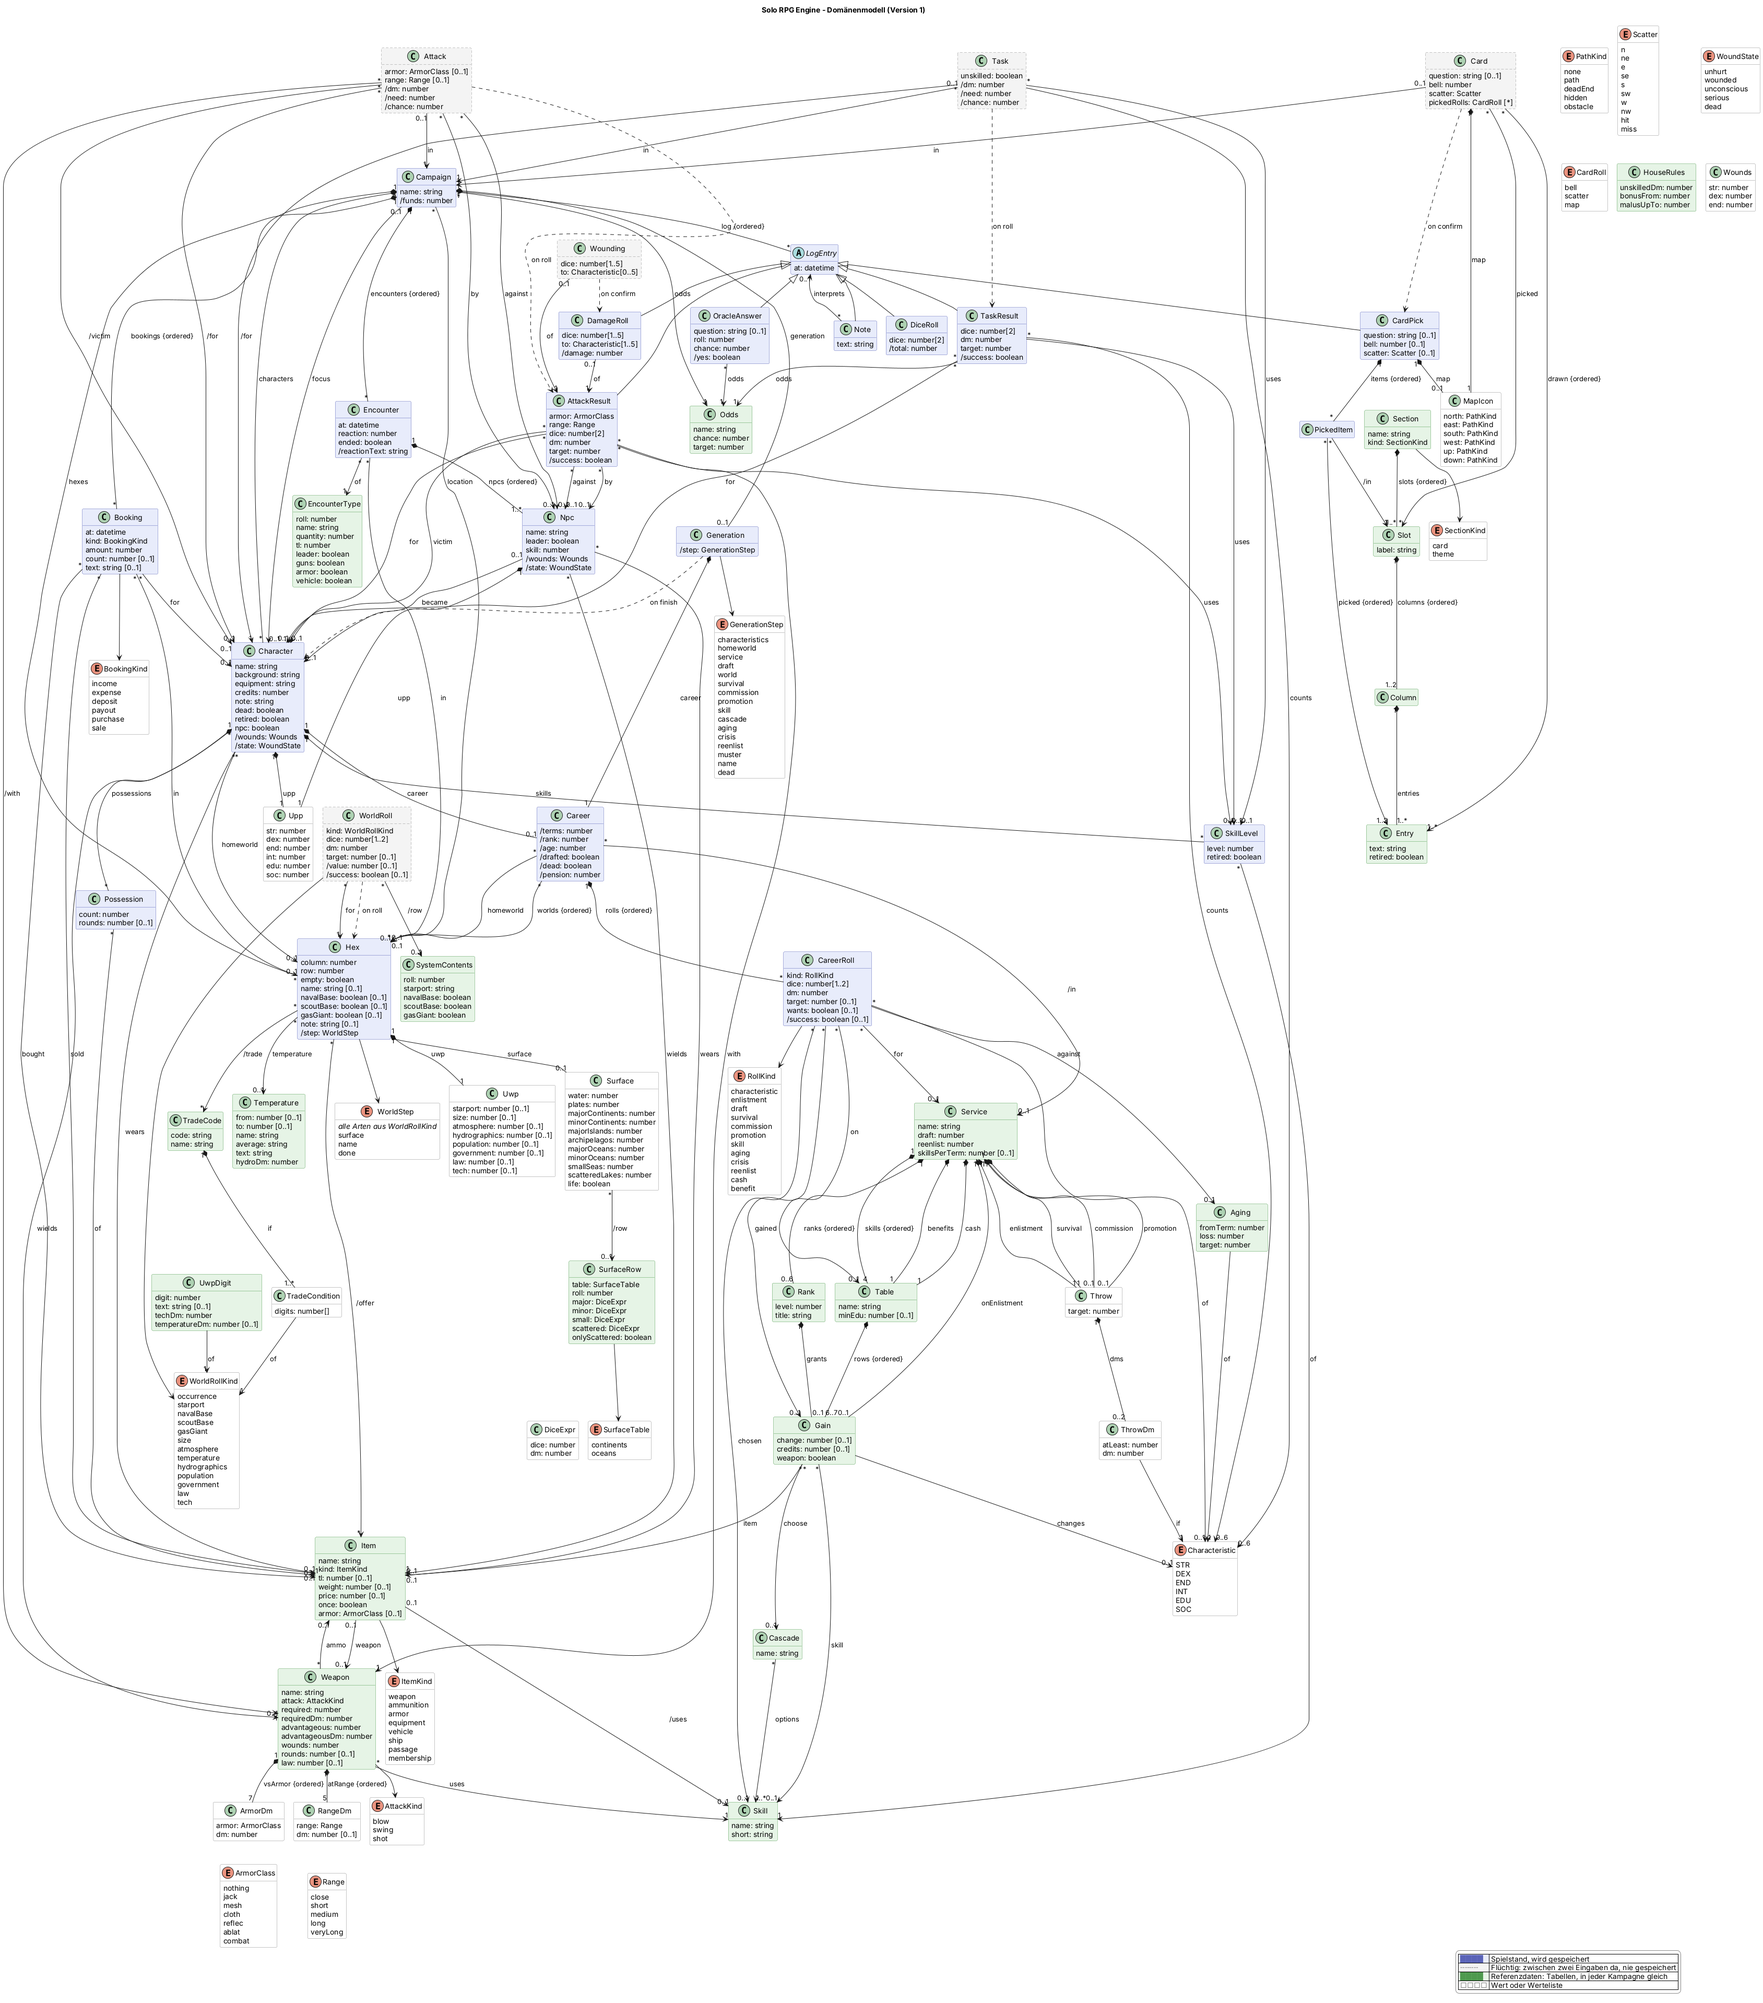
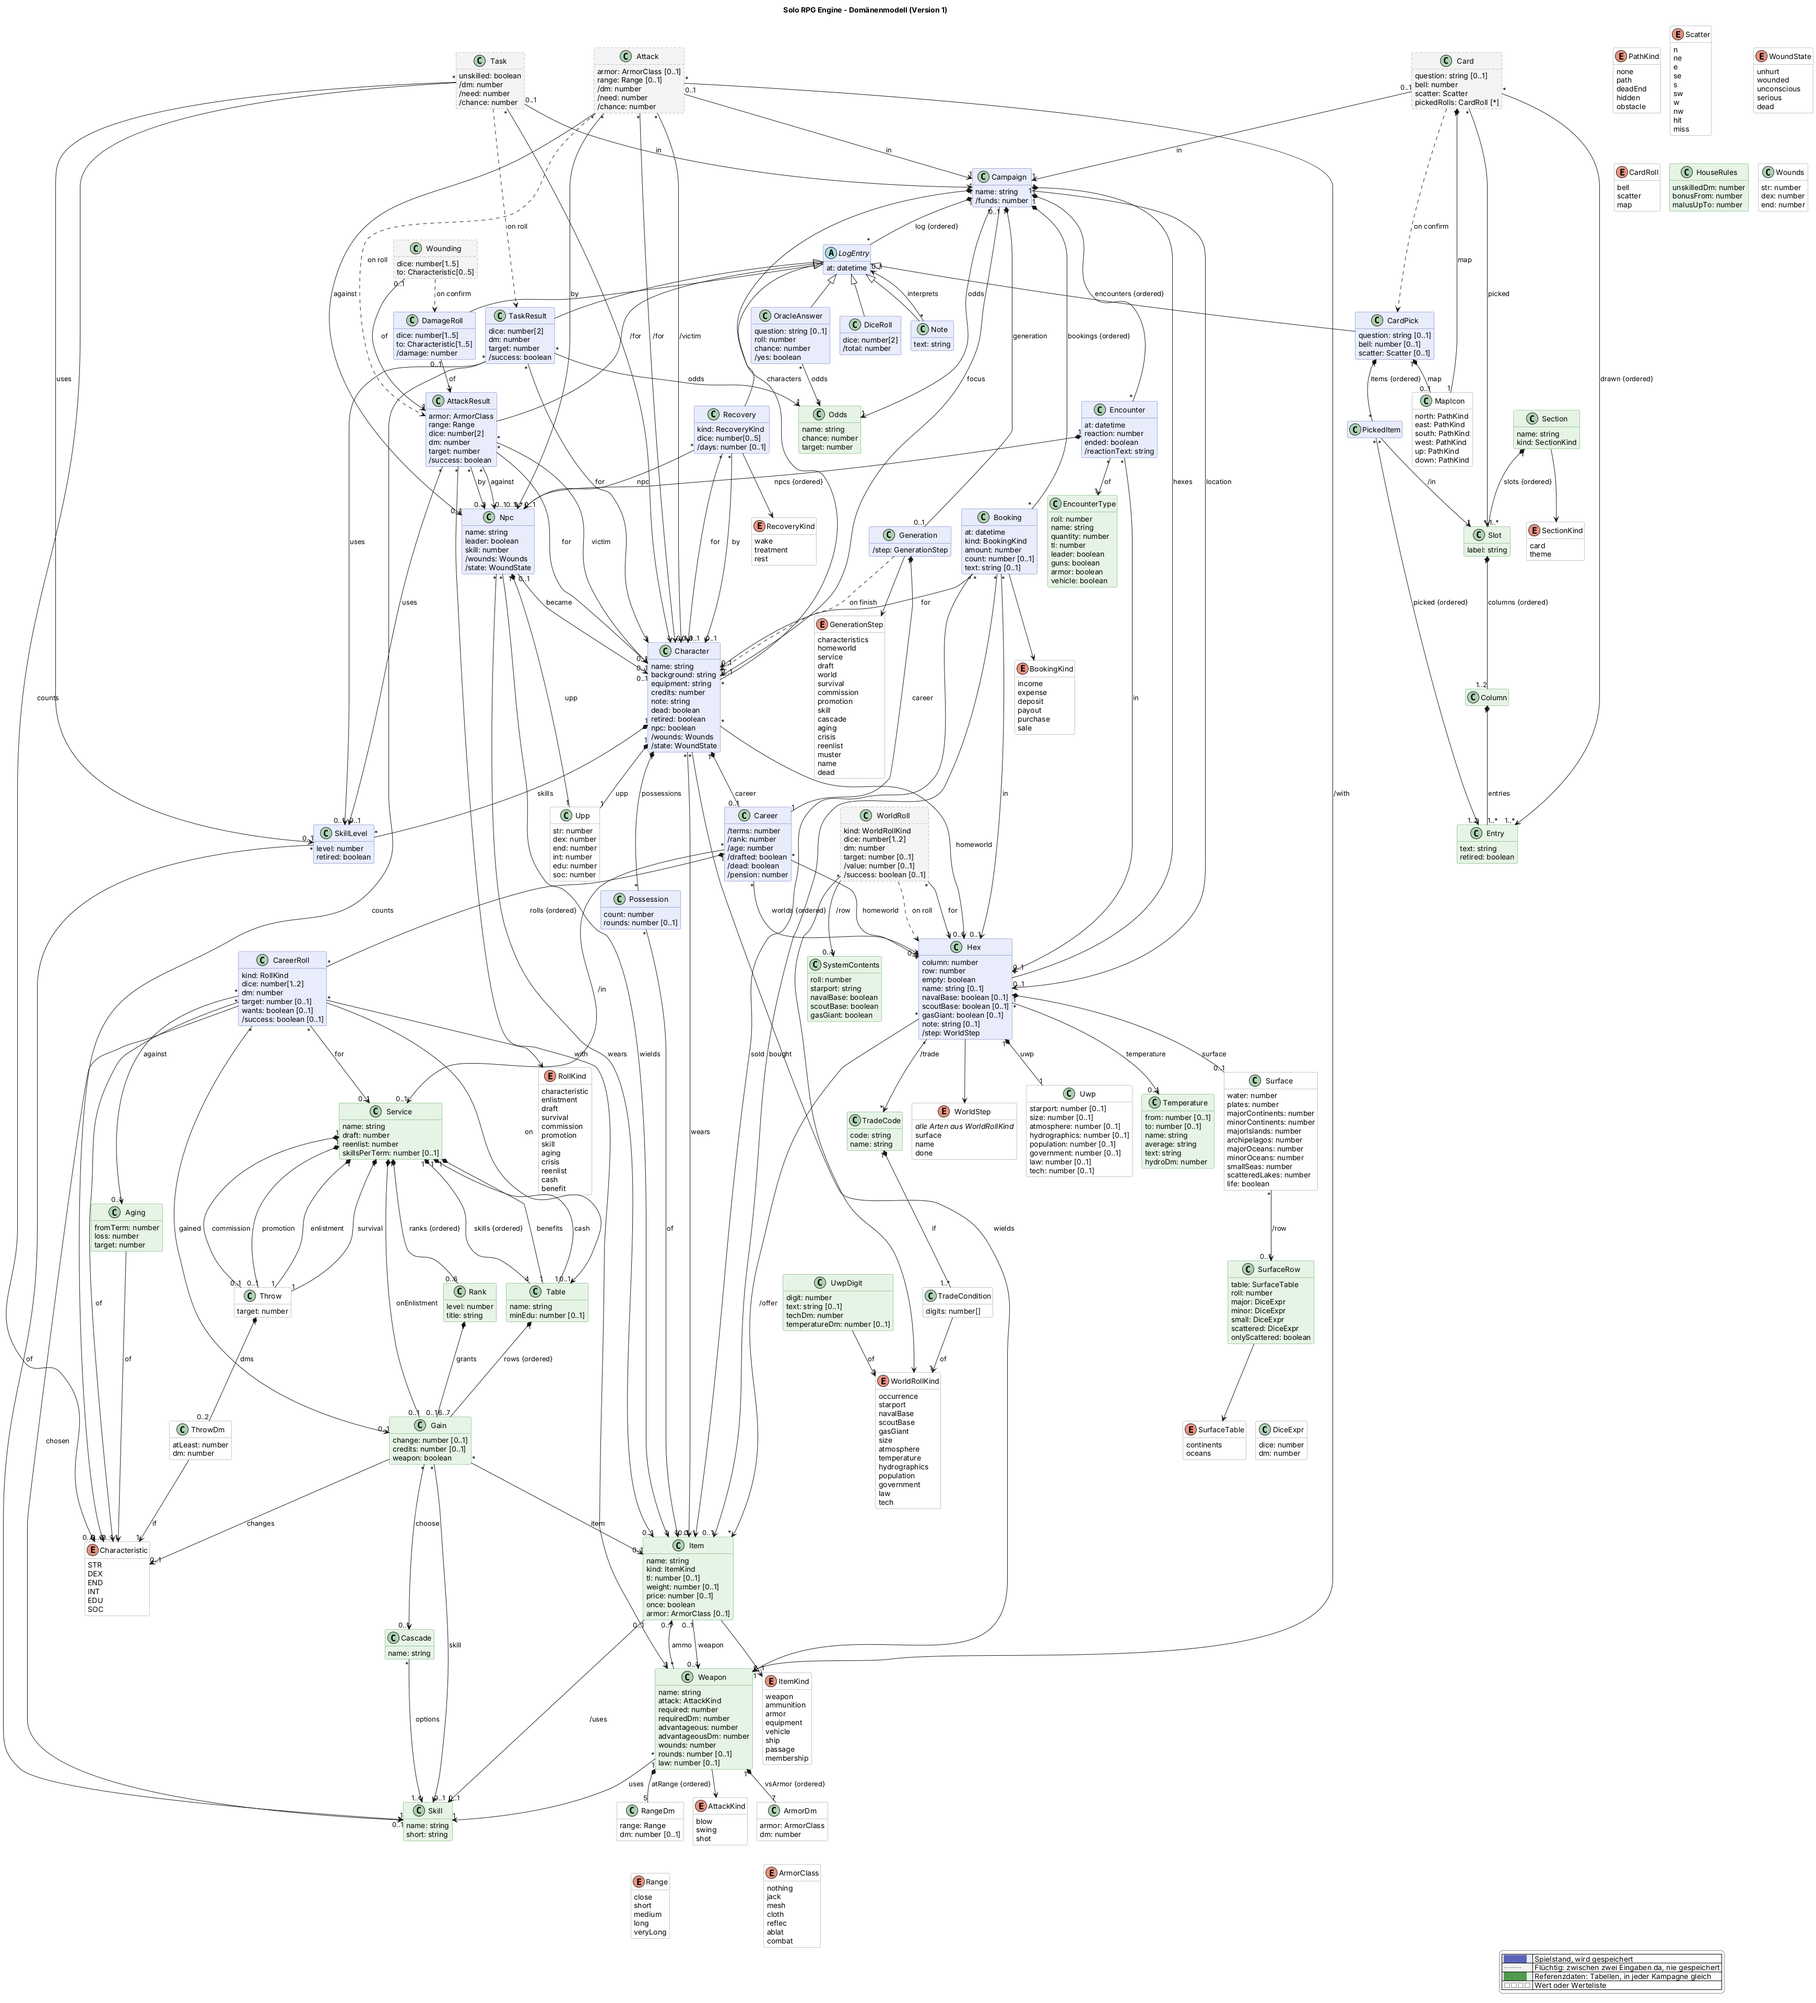
Domänenmodell: Entwurf für Heilung
Claude-Session: https://claude.ai/code/session_016ZF27yZHN9giErP6hqtVYC

diff --git a/docs/domain-model.md b/docs/domain-model.md
@@ -88,6 +88,10 @@ Lücken unter [Wo der Code noch nicht folgt](#wo-der-code-noch-nicht-folgt).
 > flüchtig der Angriff in Vorbereitung (`Attack`), im Log das Angriffsergebnis (`AttackResult`)
 > und der Schadenswurf (`DamageRoll`).
 >
+> **Entwurf, noch nicht freigegeben** (3. November 2026): **Heilung** (siehe *Heilung*). Neu im Bild:
+> der Logeintrag `Recovery` mit `RecoveryKind` (Aufwachen, Behandlung, Ruhe), Patient (`for` bzw.
+> `npc`) und Behandelnder (`by`).
+>
 > Ebenfalls am 3. November 2026 freigegeben: **Begegnungen mit NSC, Angriffe in beide Richtungen
 > und Wunden** (siehe *Begegnung*, *NSC*, *Wunden*, *Getragene Rüstung*). Neu im Bild:
 > `Encounter`, `Npc`, `Wounds`, `WoundState`, als Referenzdaten `EncounterType`, flüchtig
@@ -193,6 +197,11 @@ Vacc Suit, Jack-of-all-Trades, …), Terms, Cr.
 | Rüstungsklasse einer Rüstung | `Item.armor` | Wie eine Rüstung in der Matrix zählt, z. B. Vacc Suit als Cloth, Battle Dress als Combat |
 | Wunden | `/wounds`, `Wounds` | Wie viel STR, DEX und END jemand durch Treffer verloren hat |
 | Zustand | `/state`, `WoundState` | unverletzt, verwundet, bewusstlos (ein Attribut auf 0), schwer verwundet (zwei), tot (drei) |
+| Heilung | `Recovery` | Ein Logeintrag, der Wunden zurücknimmt: Aufwachen, Behandlung oder Ruhe (S. 7) |
+| Aufwachen | `RecoveryKind.wake` | Ein Bewusstloser kommt zu sich; die Wunden gehen zur Hälfte zurück, bei einer schweren Wunde nur auf mindestens 1 |
+| Behandlung | `RecoveryKind.treatment` | Ein SC mit Medical heilt die Wunden ganz: leichte mit Medical-1 und Medical Kit in 30 Minuten, schwere mit Medical-3 in einer medizinischen Einrichtung in 5W6 Tagen |
+| Ruhe | `RecoveryKind.rest` | Leichte Wunden heilen ohne Behandlung in 3 Tagen ganz |
+| Leichte und schwere Wunde | `/severity` | Schwer, wenn seit der letzten vollen Heilung zwei Attribute zugleich auf 0 standen; sonst leicht |
 | Schaden verteilen | `Wounding` | Ein gewürfelter Schaden an einem SC, solange der Spieler die Würfel auf Attribute verteilt |
 | Angriff | `Attack` | Ein Angriff, solange er für den Charakter oben vorbereitet wird |
 | Angriffsergebnis | `AttackResult` | Ein gewürfelter Angriff: Treffer oder nicht |
@@ -570,9 +579,29 @@ Vacc Suit, Jack-of-all-Trades, …), Terms, Cr.
     im Editor zurücknehmen.
   - Ein Treffer ohne Ziel (frei gewählte Rüstung) würfelt seinen Schaden wie bisher, verteilt ihn
     aber nicht (`to` fehlt).
-  - **Später**: Heilung (Medical Kit, Medical-1/-3, Ruhe), das Aufwachen auf die Mitte zwischen
-    verwundet und voll, Wunden mit Zeit, Munition der NSC, Fahrzeuge, Überraschung, Entfernung,
+  - **Später**: Medical Drugs, Wunden mit Zeit, Munition der NSC, Fahrzeuge, Überraschung, Entfernung,
     Moral und Kampfrunden.
+- **Heilung.** Nach S. 7. Eine Heilung ist ein Logeintrag (`Recovery`) für einen verwundeten SC
+  (`for`) oder NSC der laufenden Begegnung (`npc`), nie für einen Toten. Die Wunden (`/wounds`)
+  folgen aus Schadenswürfen und Heilungen im Log, der Reihe nach; eine Heilung löschen nimmt sie
+  zurück.
+  - **Leicht oder schwer** (`/severity`): Eine Wunde ist *schwer*, wenn seit der letzten vollen
+    Heilung zwei Attribute zugleich auf 0 standen, sonst *leicht*. Aufwachen macht eine schwere
+    Wunde nicht leicht.
+  - **Aufwachen** (`wake`): nur für Bewusstlose und schwer Verwundete. Bei einem Attribut auf 0 (10
+    Minuten bewusstlos) steht jedes verwundete Attribut danach in der Mitte zwischen verwundetem und
+    vollem Wert, abgerundet. Bei zwei auf 0 (3 Stunden bewusstlos) bleiben die Werte verwundet, aber
+    mindestens 1.
+  - **Behandlung** (`treatment`): Ein lebender SC, der nicht bewusstlos ist (`by`, auch der Patient
+    selbst, wenn er wach ist), heilt alle Wunden ganz. Bei einer leichten Wunde braucht er Medical-1
+    und ein Medical Kit im Besitz; es dauert 30 Minuten. Bei einer schweren Wunde braucht er
+    Medical-3 und eine medizinische Einrichtung (Krankenstation, Sick Bay eines Schiffs); ob es eine
+    gibt, bestätigt der Spieler. Die Dauer sind 5W6 Tage (`dice`, `/days`).
+  - **Ruhe** (`rest`): heilt eine leichte Wunde ganz nach 3 Tagen, ohne Behandelnden. Eine schwere
+    Wunde heilt ohne Behandlung nicht.
+  - Nach einer vollen Heilung (Behandlung oder Ruhe) zählt der nächste Treffer wieder als erster
+    (er geht ganz auf ein zufälliges Attribut).
+  - Die App führt keine Spielzeit; Dauern stehen nur im Log.
 - **Charakter oben.** Oben im Orakel-Screen steht ein Charakter der Kampagne, der **Charakter oben**
   (`focus`); für ihn würfelt man Proben, ohne den Screen zu wechseln. Wischen zeigt den nächsten
   bzw. vorigen. Infrage kommen nur Lebende, die nicht ausgeblendet sind, in der Reihenfolge der
